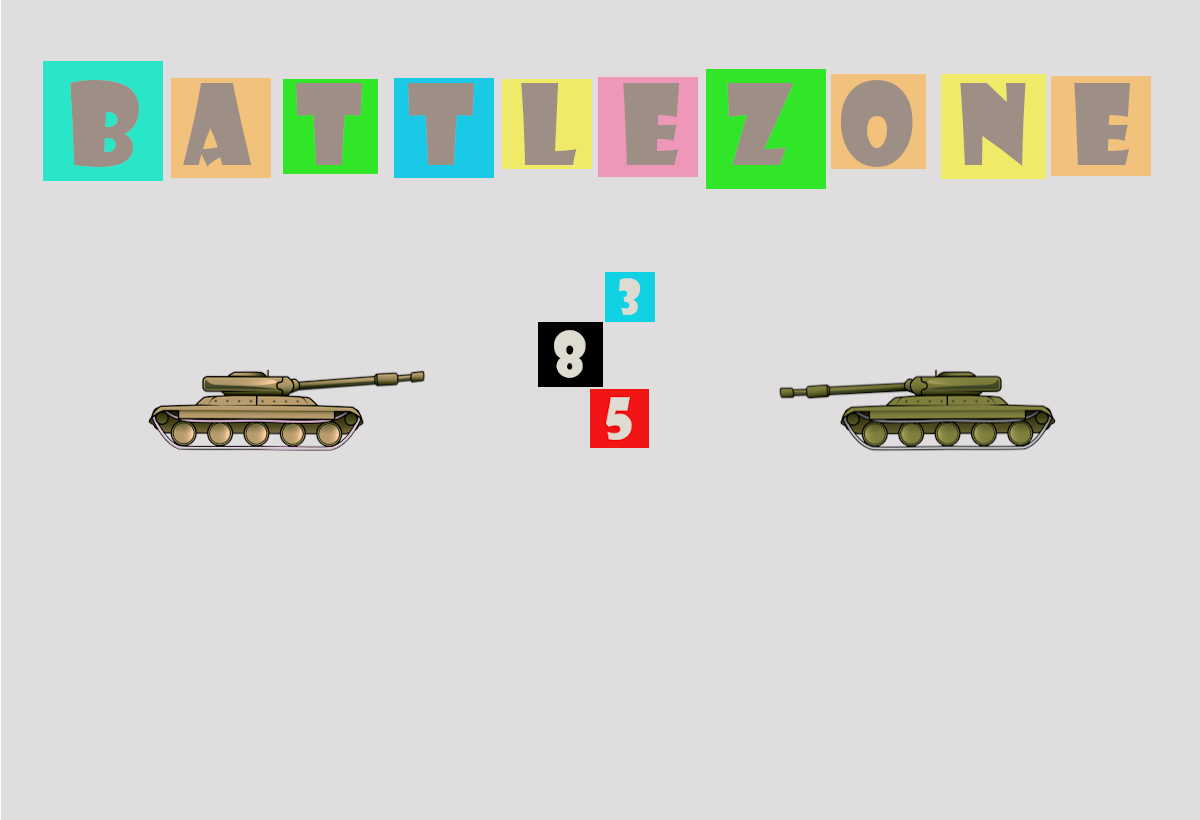
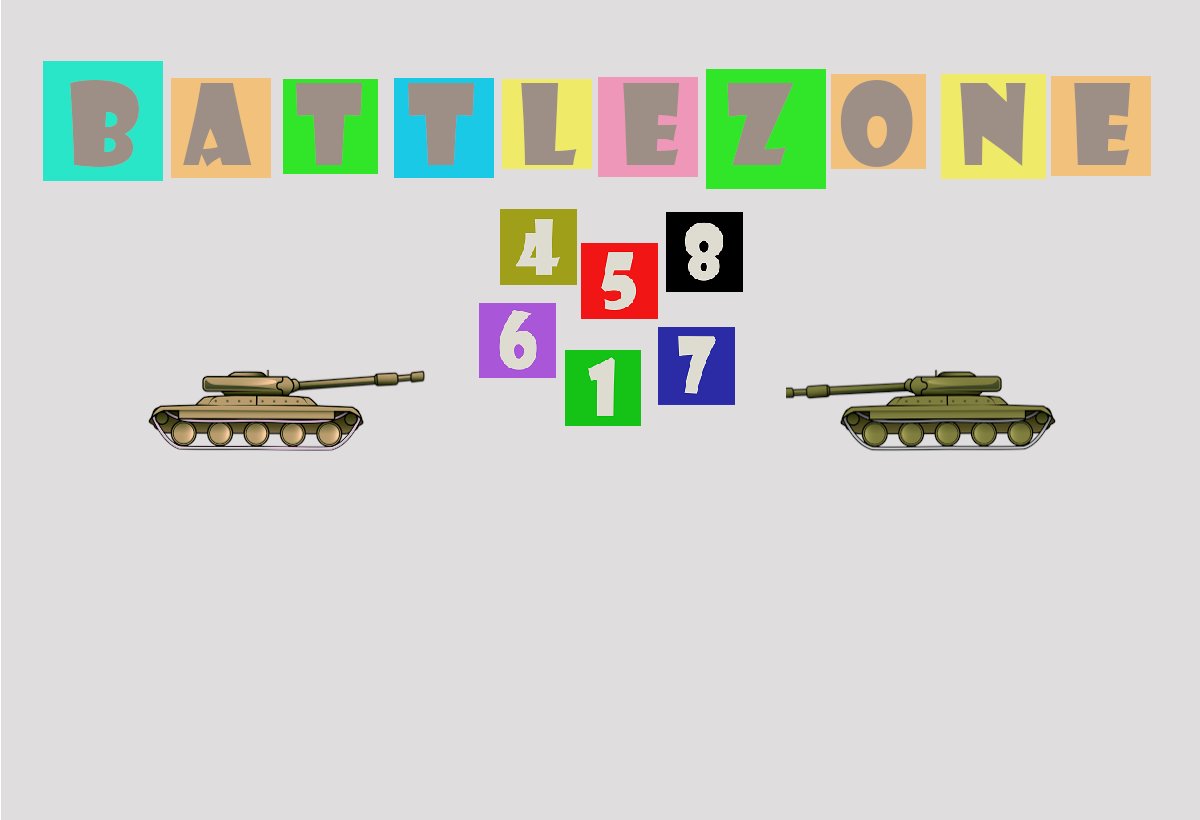
Improving gameboard

Changed region(s): [[0.4008, 0.2439, 0.6167, 0.5488]]

diff --git a/src/main/java/Game.java b/src/main/java/Game.java
@@ -115,18 +115,17 @@ public class Game extends JFrame implements Runnable {
             leftPlayer.speedUpBullets(config.getPercentageIncreaseInBulletsSpeed());
             rightPlayer.speedUpBullets(config.getPercentageIncreaseInBulletsSpeed());
             timeToChangeBSpeedAndCSize = config.getTimeToChangeBulletsSpeedAndCellsSize();
+
+            int percent = config.getPercentageDecreaseInCellsSize();
+            // zmniejszenie rozmiaru komórek o percent
+            timeToChangeBSpeedAndCSize = config.getTimeToChangeBulletsSpeedAndCellsSize();
         }
 
         if (timeToIncreaseCellsValues == 0 && (maxTime - leftTime) != 0) {
             // zwiększenie wartości komórek
-            timeToGenerateKidsCells = config.getTimeToIncreaseCellsValues();
-        }
-
-        if (timeToIncreaseCellsValues == 0 && (maxTime - leftTime) != 0) {
-            int percent = config.getPercentageDecreaseInCellsSize();
-            // zmniejszenie rozmiaru komórek o percent
             timeToIncreaseCellsValues = config.getTimeToIncreaseCellsValues();
         }
+
 
         if (timeToGenerateKidsCells == 0 && (maxTime - leftTime) != 0) {
             // pojawienie się komórek dzieci
@@ -162,11 +161,11 @@ public class Game extends JFrame implements Runnable {
         int percentBullets = config.getPercentageIncreaseInBulletsSpeed();
         int percentCells = config.getPercentageDecreaseInCellsSize();
 
-        gamePanel.getInfoLabel().setText(format("Nowe komórki za %03ds", timeToGenerateNewCells) + space
-                + format("Komórki dzieci za %03ds", timeToGenerateKidsCells) + space
-                + format("Wzmocnienie komórek za %03ds", timeToIncreaseCellsValues) + space
-                + format("Zmniejszenie komórek za %03ds o %3d%%", timeToChangeBSpeedAndCSize, percentCells) + space
-                + format("Przyspieszenie pocisków za %03ds o %3d%%", timeToChangeBSpeedAndCSize, percentBullets));
+        gamePanel.getInfoLabel().setText(format("Nowe komórki za %02ds", timeToGenerateNewCells) + space
+                + format("Komórki dzieci za %02ds", timeToGenerateKidsCells) + space
+                + format("Wzmocnienie komórek za %02ds", timeToIncreaseCellsValues) + space
+                + format("Zmniejszenie komórek za %02ds o %03d%%", timeToChangeBSpeedAndCSize, percentCells) + space
+                + format("Przyspieszenie pocisków za %02ds o %03d%%", timeToChangeBSpeedAndCSize, percentBullets));
     }
 
     public void repaint(Graphics g) {
@@ -197,11 +196,11 @@ public class Game extends JFrame implements Runnable {
         String space = "                ";
         int percentBullets = config.getPercentageIncreaseInBulletsSpeed();
         int percentCells = config.getPercentageDecreaseInCellsSize();
-        gamePanel.getInfoLabel().setText(format("Nowe komórki za %03ds", timeToGenerateNewCells) + space
-                + format("Komórki dzieci za %03ds", timeToGenerateKidsCells) + space
-                + format("Wzmocnienie komórek za %03ds", timeToIncreaseCellsValues) + space
-                + format("Zmniejszenie komórek za %03ds o %3d%%", timeToChangeBSpeedAndCSize, percentCells) + space
-                + format("Przyspieszenie pocisków za %03ds o %3d%%", timeToChangeBSpeedAndCSize, percentBullets));
+        gamePanel.getInfoLabel().setText(format("Nowe komórki za %02ds", timeToGenerateNewCells) + space
+                + format("Komórki dzieci za %02ds", timeToGenerateKidsCells) + space
+                + format("Wzmocnienie komórek za %02ds", timeToIncreaseCellsValues) + space
+                + format("Zmniejszenie komórek za %02ds o %03d%%", timeToChangeBSpeedAndCSize, percentCells) + space
+                + format("Przyspieszenie pocisków za %02ds o %03d%%", timeToChangeBSpeedAndCSize, percentBullets));
 
         BOARD_WIDTH = config.getBoardWidth();
         BOARD_HEIGHT = config.getBoardHeight();

diff --git a/src/main/java/MenuPanel.java b/src/main/java/MenuPanel.java
@@ -158,12 +158,9 @@ public class MenuPanel extends JPanel implements ActionListener {
 
                 if (checkBox.isSelected()) {
                     if (game.getConfig() == null) {
-                        try {
-                            isFileOK = true;
-                            game.setConfig(new InputFileReader(new File("src/main/resources/config/ConfigFile.txt")));
-                        } catch (Exception ex) {
-                            JOptionPane.showMessageDialog(null, "Nie znaleziono pliku!");
-                        }
+                        isFileOK = true;
+                        File file = new File("src/main/resources/config/ConfigFile.txt");
+                        checkFile(file);
                     }
                 }
 

diff --git a/src/main/java/InputFileReader.java b/src/main/java/InputFileReader.java
@@ -53,7 +53,7 @@ public class InputFileReader {
                             "Dopuszczalne wartości od %d do %d.", constant.key, constant.minValue, constant.maxValue));
                 constant.value = value;
             } catch (NumberFormatException e){
-                JOptionPane.showMessageDialog(null, "Niepoprawny parametry stałej " + constant.key);
+                JOptionPane.showMessageDialog(null, "Niepoprawny parametr dla stałej " + constant.key);
                 MenuPanel.isFileOK = false;
             }
 
